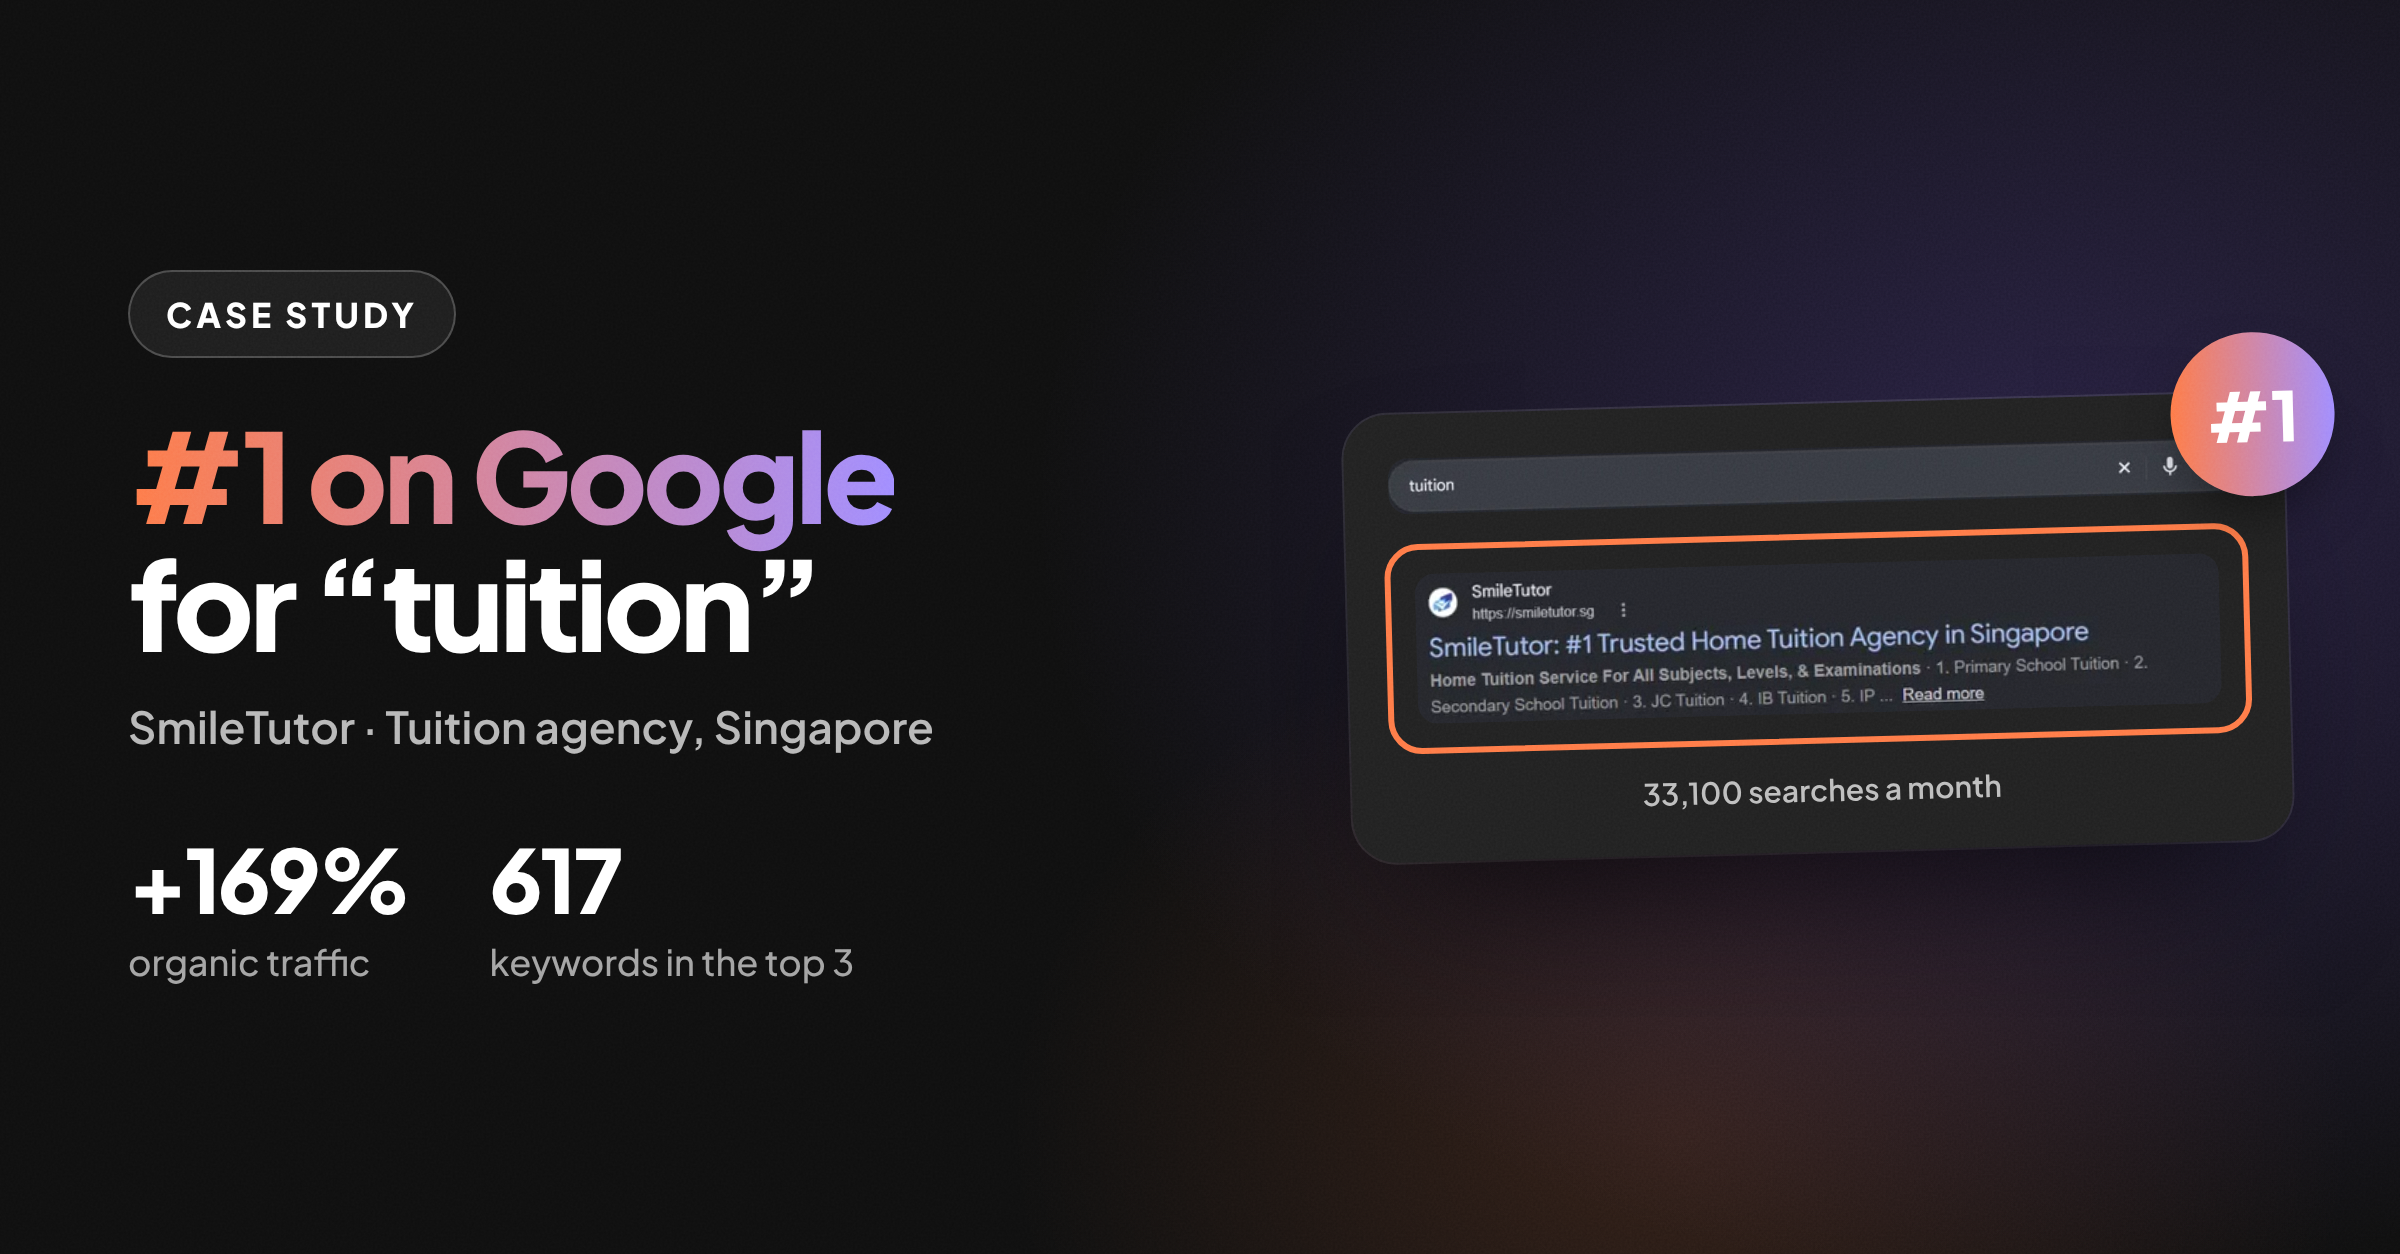
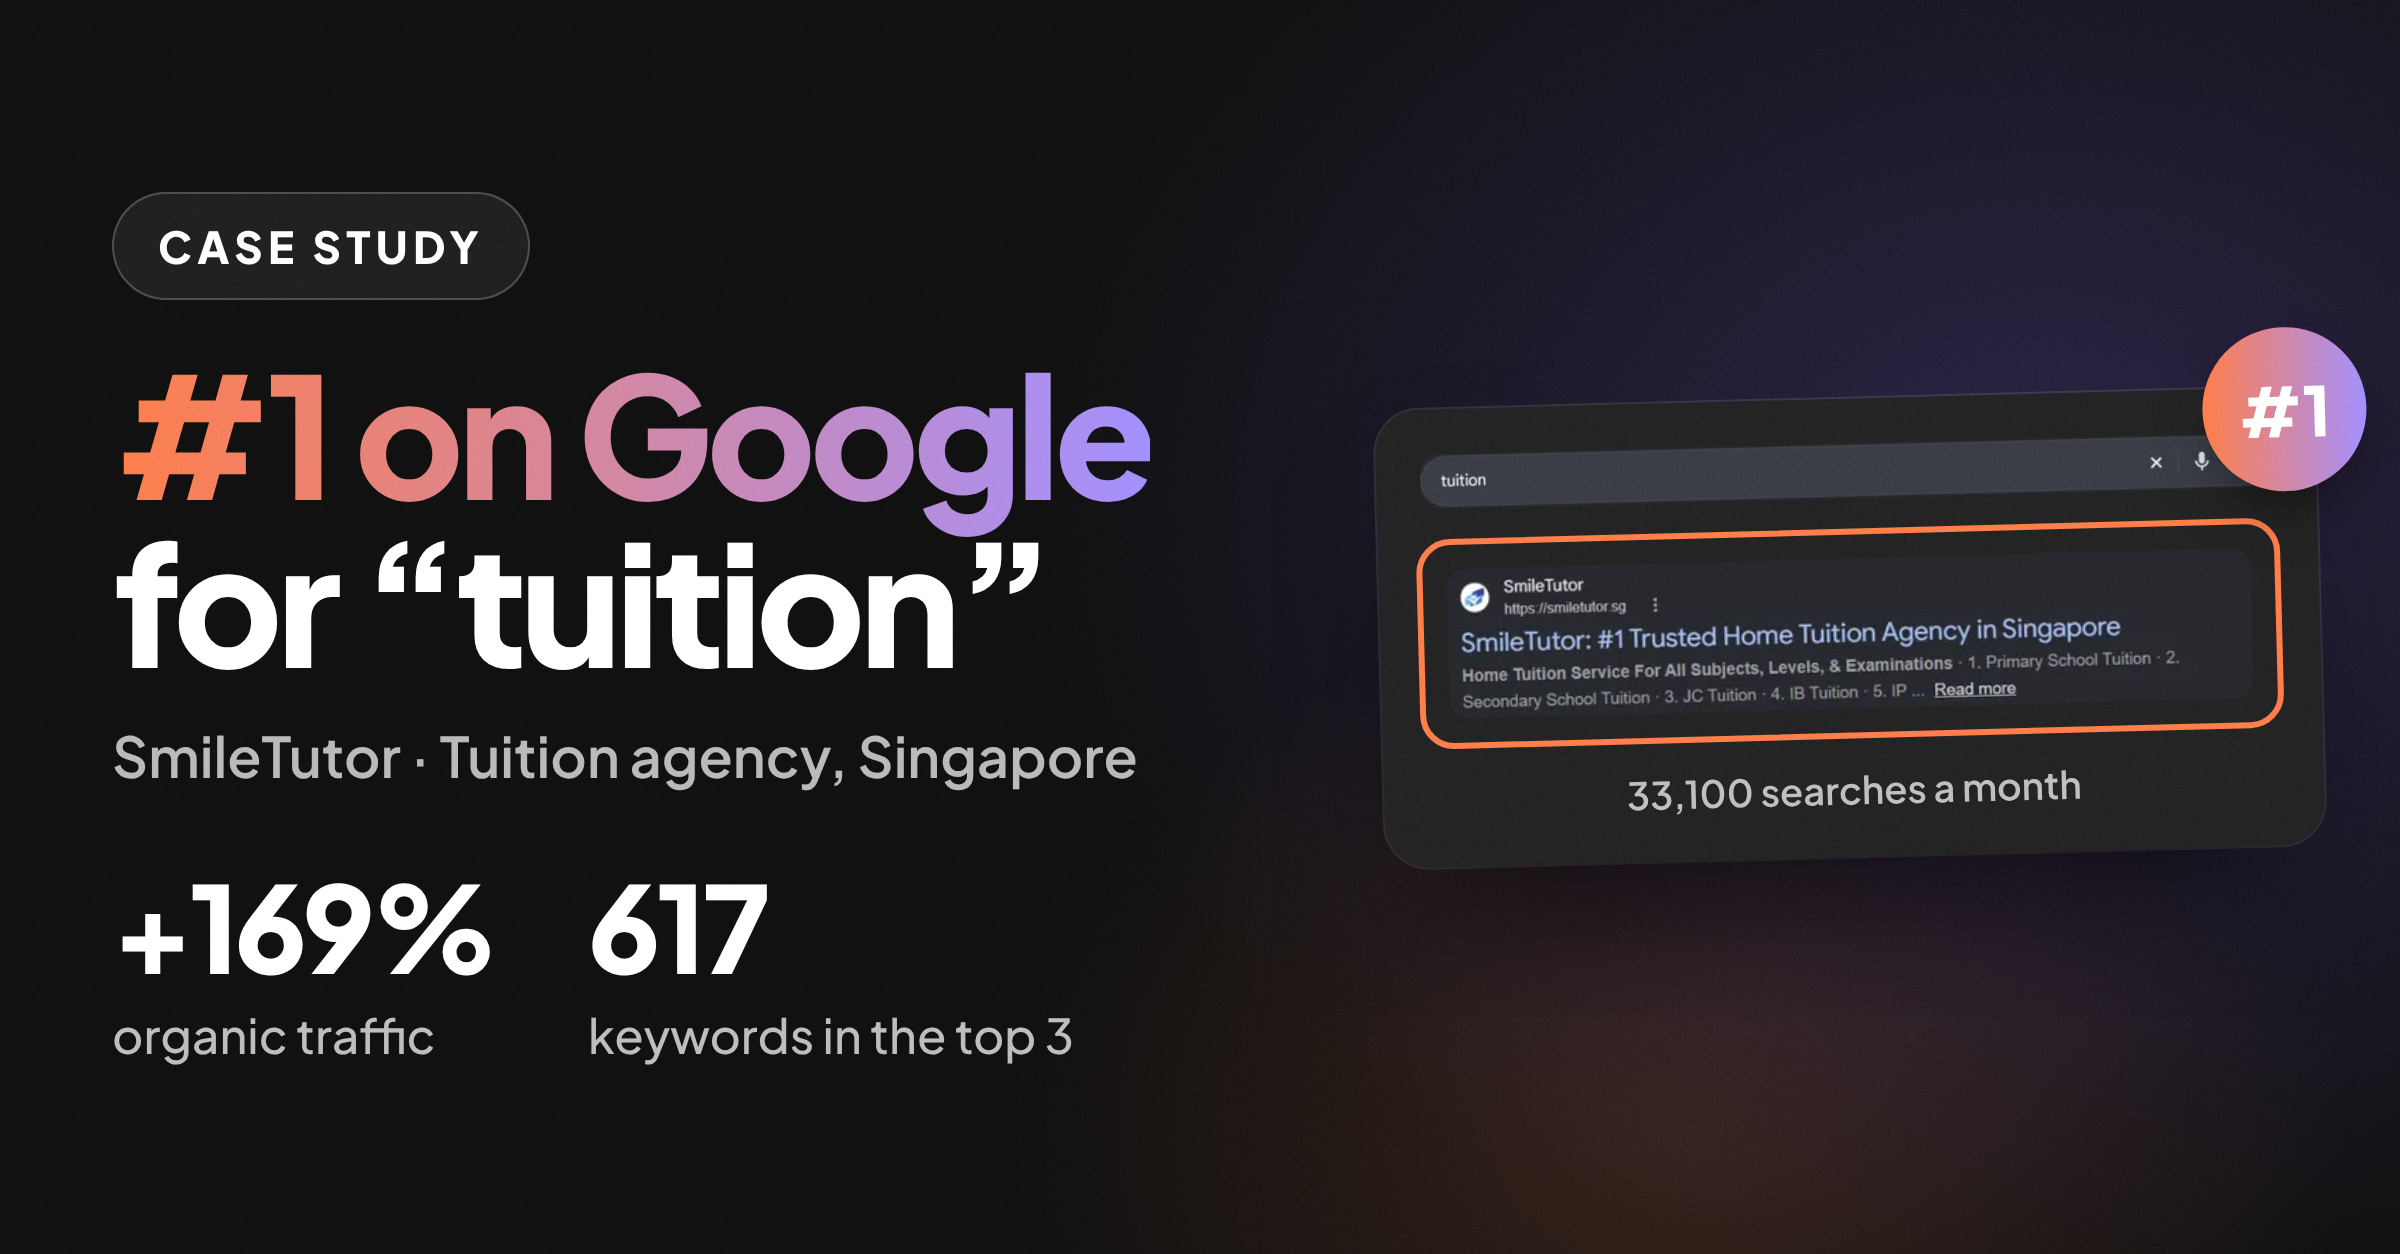
LinkedIn Featured: bigger type so the cards read at Featured-row size
Claude-Session: https://claude.ai/code/session_01RB5pCYgPZ9RaNRaU6MLX8J

diff --git a/docs/linkedin-banner/featured/cards.html b/docs/linkedin-banner/featured/cards.html
@@ -45,6 +45,20 @@
   .serp.dark { background: #1F1F1F; } .serp.dark .tag { color: #BDBDBD; }
   #c1 h1 { font-size: 54px; white-space: nowrap; } #c1 .text { width: 700px; }
   .tag { margin-top: 16px; font-size: 15px; font-weight: 600; color: #555; text-align: center; }
+
+  /* bigger type: the Featured row shows these at about a third of their size */
+  .text { left: 56px; width: 640px; }
+  .pill { font-size: 22px; padding: 12px 22px; }
+  h1 { margin-top: 24px; font-size: 84px; line-height: 1.0; }
+  .who { margin-top: 18px; font-size: 28px; }
+  .stats { margin-top: 30px; gap: 46px; }
+  .stats b { font-size: 60px; }
+  .stats span { font-size: 24px; color: rgb(255 255 255 / .72); }
+  .serp { right: 40px; width: 470px; }
+  .tag { font-size: 19px; }
+  #c1 h1 { font-size: 61px; } #c1 .text { width: 760px; }
+  #c1 .sub { font-size: 30px; max-width: 640px; }
+  .brands span { font-size: 16px; }
 </style>
 </head>
 <body>
@@ -101,7 +115,7 @@
     <div class="rank">#1</div>
     <img src="cd-query.png" alt="">
     <div class="res" style="outline:none;padding:0"><img src="cd-result.png" alt="CryptoDesk ranking for crypto exchange in dubai"></div>
-    <p class="tag">Ahead of Binance, OKX and the comparison sites</p>
+    <p class="tag">Ahead of Binance and OKX</p>
   </div>
   <div class="grain"></div>
 </section>
